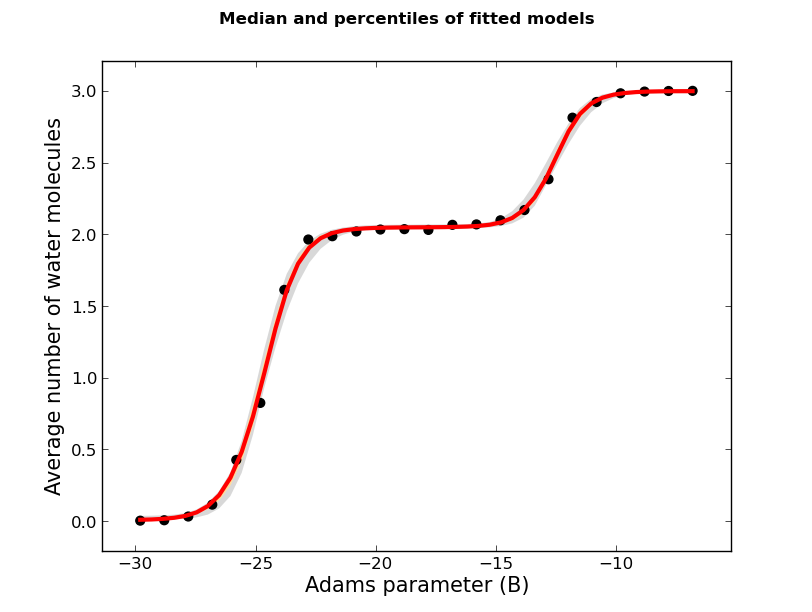
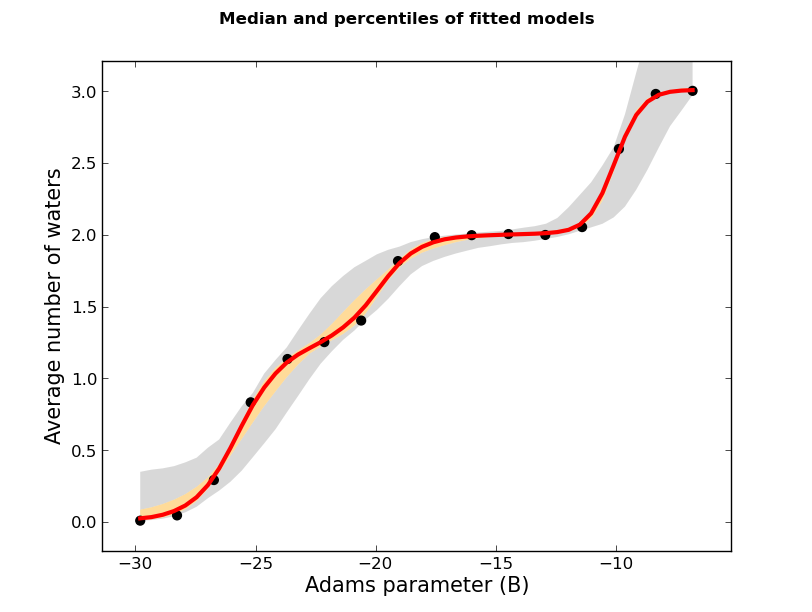
updated tutorial - smaller gcmc box

Changed region(s): [[0.1539, 0.0931, 0.8621, 0.8693], [0.0308, 0.1863, 0.1232, 0.8072], [0.0924, 0.1242, 0.1232, 0.1552]]

diff --git a/tutorial/gcmc_binding_network/gcmc_titration.html b/tutorial/gcmc_binding_network/gcmc_titration.html
@@ -19,56 +19,64 @@ The protein has already been protonated and the atoms names have translated to t
 <h5>Setup</h5>
 Before running GCMC, you must carefully select the region where you'd like to perform GCMC. During the simulations, waters will be inserted and deleted within that region, and the free energy to add or remove waters can be calculated using grand canonical integration. Therefore, you should make sure the GCMC region covers the volume you're interested in. 
 <p>
-In <code>protein_pms.pdb</code>, a box centred at (31.5, 7.0, 2.0) whose sides have lengths (5.0, 4.0, 8.0) encompasses a small cavity. The aim is to use GCMC to calculate the total affinity of water for that site. We can create a box to these specifications by typing
+In <code>protein_pms.pdb</code>, a box centred at (32.0, 7.0, 2.0) whose sides have lengths (3.5, 4.0, 8.0) encompasses a small cavity. The aim is to use GCMC to calculate the total affinity of water for that site. We can create a box to these specifications by typing
 
 <p>
-<pre>python2.7 $PROTOMSHOME/tools/make_gcmcbox.py -b 31.5 7.0 2.0 5.0 4.0 8.0 -o gcmc_box.pdb</pre>
+<pre>python2.7 $PROTOMSHOME/tools/make_gcmcbox.py -b 32.0 7.0 2.0 3.5 4.0 8.0 -o gcmc_box.pdb</pre>
 <p>
 
 This creates a file called <code>gcmc_box.pdb</code> while outputting:
 <p>
 <pre>
-Volume of GCMC box: 160.0
-Bequil: -8.8
+Volume of GCMC box: 112.0
+Bequil: -9.15
 </pre>
 <p>
 We need to know the volume of the GCMC box later for analysis, but will use <em>B<sub>equil</sub></em> to set up the simulation. <em>B<sub>equil</sub></em> is calculated using:
 <p>
      <em>B<sub>equil</sub></em> = <em>&beta;&mu;'</em><sub>hyd</sub> + <em>ln(V/V<sup>o</sup>)</em>,
 <p>
-where <em>B<sub>equil</sub></em> is the Adams value that produces the equilibrium number of waters for the system. <em>&mu;'</em><sub>hyd</sub> is the excess chemical potential of bulk water, which is the hydration free energy of a single water molecule. In ProtoMS, previous analysis has found that <em>&mu;'</em><sub>hyd</sub> equals -6.2 kcal/mol. As the region specified by <code>gcmc_box.pdb</code> has a volume of 160 <span>&#8491;</span><sup>3</sup>, the above equation gives <em>B<sub>equil</sub></em> to be -8.8.
+where <em>B<sub>equil</sub></em> is the Adams value that produces the equilibrium number of waters for the system. <em>&mu;'</em><sub>hyd</sub> is the excess chemical potential of bulk water, which is the hydration free energy of a single water molecule. In ProtoMS, previous analysis has found that <em>&mu;'</em><sub>hyd</sub> equals -6.2 kcal/mol. As the region specified by <code>gcmc_box.pdb</code> has a volume of 112 <span>&#8491;</span><sup>3</sup>, the above equation gives <em>B<sub>equil</sub></em> to be -9.15.
 <p>
-The box we've just created and the small cavity in the protein look like:<br>
+The box we've just created and the small cavity in the protein look like: XXX replace<br>
 <img src="box.png" width="%" height="40%" alt="" /><br>
 <p>
 The figure shows a slice through the surface of the protein, and <code>gcmc_box.pdb</code> encompassing the small, sock-like cavity we're interested in.
 <p>
-As we wish to completely bind water to the volume specified by <code>gcmc_box.pdb</code>, we must run a series of GCMC simulations at different chemical potentials (Adams value in ProtoMS), within which the average number of inserted waters ranges from 0 to the equilibrium number of waters for the system. As we know <em>B<sub>equil</sub></em> is -8.8, we want to chose a range of waters which encompasses this value towards its higher end. We will chose a range of -6.8 to -29.8, which will generate 24 B values. 
+As we wish to completely bind water to the volume specified by <code>gcmc_box.pdb</code>, we must run a series of GCMC simulations at different chemical potentials (Adams value in ProtoMS), within which the average number of inserted waters ranges from 0 to the equilibrium number of waters for the system. As we know <em>B<sub>equil</sub></em> is -9.15, we want to chose a range of waters which encompasses this value towards its higher end. We will chose a range of -6.8 to -29.8. As we would like this to run on a single, 16 processor node, we will run 16 B values between these two points. If you would like to set this simulation up for a different machine, change the value to 12 or 24, or any appropriate value.
 <p>
 
-<pre>python2.7 $PROTOMSHOME/protoms.py -s gcmc -sc protein_pms.pdb --gcmcbox gcmc_box.pdb --adamsrange -29.8 -6.8</pre>
+<pre>python2.7 $PROTOMSHOME/protoms.py -s gcmc -sc protein_pms.pdb --gcmcbox gcmc_box.pdb --adamsrange -29.8 -6.8 16</pre>
 
 This has automatically solvated our protein in a droplet of water (<code>water.pdb</code>) by randomly placing waters up to bulk density. Any solvent water that was placed inside <code>gcmc_box.pdb</code> has been removed to create <code>water_clr.pdb</code>.
+<p>
+
+For this system, convergence can sometimes be difficult. For this reason, open the run_gcmc.
+cmd file in a text editor. The last line should start with "chunk simulate 40000000". Change
+ this to say "chunk simulate 80000000", which will double the number of production steps. Sa
+ve the changes before starting the simulation.
 
 <h5>Execution</h5>
-To run the simulation, you need 24 cores and MPI. Execute by typing
+To run the simulation, you need 16 cores (or whatever number of B values you have chosen) and MPI. Execute by typing
 
-<pre>mpirun -np 24 $PROTOMSHOME/protoms3 run_gcmc.cmd</pre>
+<pre>mpirun -np 16 $PROTOMSHOME/protoms3 run_gcmc.cmd</pre>
 
 <p>
 <h5>Analysis</h5>
 It is vital that you check the simulations by eye. If you have Pymol, you can check the output structures from one of the GCMC simulations by typing
 
-<pre> pymol out_gcmc/b_-8.800/all.pdb </pre>
+<pre> pymol out_gcmc/b_-8.333/all.pdb </pre>
 
 Check your <code>warning</code> files as well to make sure nothing untoward has happened.
 <p>
 
 Before calculating occupancies and free energies with grand canonical integration, we should check to see if the simulations are approximately equilibrated. For one simulation, we can see the average number of inserted GCMC waters for each snapshot by typing
 
-<pre>python2.7 $PROTOMSHOME/tools/calc_series.py -f out_gcmc/b_-8.800/results -s solventson </pre> 
+<pre>python2.7 $PROTOMSHOME/tools/calc_series.py -f out_gcmc/b_-8.333/results -s solventson </pre> 
 
-This would have produced an estimate for the start of the equilibrated period. Check to see if that value matches what you see in the graph that gets automatically plotted.
+<img src="solventson.png" width="%" height="50%" alt="" /><br>
+
+This shows the average number of waters in the simulation at B = -8.333. The system is well equilibrated at 3 waters in this simulation. This would have produced an estimate for the start of the equilibrated period. Check to see if that value matches what you see in the graph that gets automatically plotted. This plot looks well equilibrated from the beginning, but this may vary between repeats and different B values. Look at a few other B values and check if they are equilibrated around a similar point. 
 <p>
 For the rest of this analysis, we'll focus on the script <code>calc_gci.py</code> which contains a lot of functionality. To see how the average number of waters varies with the applied chemical potential - in other words, a titration - type
 
@@ -81,9 +89,9 @@ Depending on what you found with <code>calc_series.py</code>, you can discard th
 <p>
 The plot shows that the average number of waters at each Adams value occurs in 'steps', which is characteristic of all GCMC titration plots. Unlike the case when GCMC is performed on a cavity that can only bind a single water molecule (like <a href="../gcmc_single/gcmc_binding_calc.html">here</a>), the points of inflection of these steps do no necessarily correspond to free energies. As demonstrated in  <em>G. A. Ross et. al, Journal of the American Chemical Society, 2015</em>, it's actually the area under the titration curve that is related to the free energy to transfer water from ideal gas to the simulated system. 
 <p>
-To calculate the area under the titration curve, it is prudent to smooth over the data. The script <code>calc_gci.py</code> can fit a curve by modelling the titration data as a sum of logistic functions, which is equivalent to a very simple type of artificial neural network (ANN). As the titration data shows what looks like 2 steps, we can input that into the model. To calculate the fit with 2 steps and plot it, type
+To calculate the area under the titration curve, it is prudent to smooth over the data. The script <code>calc_gci.py</code> can fit a curve by modelling the titration data as a sum of logistic functions, which is equivalent to a very simple type of artificial neural network (ANN). As the titration data shows what looks like 2 steps, we can input that into the model. To calculate the fit with 3 steps and plot it, type
 
-<pre>python2.7 $PROTOMSHOME/tools/calc_gci.py -d out_gcmc/b_-* -p fit -c fit --steps 2 -v 160</pre>
+<pre>python2.7 $PROTOMSHOME/tools/calc_gci.py -d out_gcmc/b_-* -p fit -c fit --steps 3 -v 112</pre>
 
 Where <code>-v</code> is the volume of the GCMC region given by the <code>make_gcmcbox.py</code> script. This can also be calculated by looking at the <code>gcmc_box.pdb</code> file and determining the volume from the length of the x, y and z dimension. 
 <p>
@@ -95,7 +103,7 @@ The line of best fit is shown in red. The fit correctly captures the shape of th
 
 To calculate the binding free energies of adding water to the cavity, type
 
-<pre>python2.7 $PROTOMSHOME/tools/calc_gci.py -d out_gcmc/b_-* -c pmf --steps 2 -v 160</pre> 
+<pre>python2.7 $PROTOMSHOME/tools/calc_gci.py -d out_gcmc/b_-* -c pmf --steps 3 -v 112</pre> 
 
 where <code>-c pmf</code> indicates that the 'potential of mean force', i.e. the free energy, will be calculated. This will bring up a table like this one:
 
@@ -105,24 +113,24 @@ FREE ENERGIES:
           |----------------------IDEAL GAS TRANSFER FREE ENERGIES--------------------|   |-BINDING FREE ENERGIES-|
 '# Waters' 'Mean'  'Std. dev.'  '25th Percentile'       'Median'      '75th Percentile'    'Mean'        'Median'
   0.00      0.00      0.00            0.00                0.00               0.00            0.00           0.00
-  1.00    -16.24      0.01          -16.24              -16.24             -16.23          -10.04         -10.04
-  2.00    -31.33      0.01          -31.33              -31.33             -31.32          -18.93         -18.93
-  3.00    -40.01      0.01          -40.01              -40.01             -40.00          -21.41         -21.41
+  1.00    -16.54      0.00          -16.54              -16.54             -16.54          -10.34         -10.34
+  2.00    -29.63      0.01          -29.63              -29.63             -29.62          -17.23         -17.23
+  3.00    -36.39      0.00          -36.39              -36.39             -36.39          -17.79         -17.79
 </pre>
 <p>
-The table shows the free energy (in kcal/mol) to transfer water from ideal gas (<code>IDEAL GAS TRANSFER FREE ENERGIES</code>) and from bulk water (<code>BINDING FREE ENERGIES</code>) to the GCMC box. The script <code>calc_gci.py</code> actually fits the ANN several times from different initial parameter values. The free energies are calculated for each fit, and from the ensemble of the calculated free energies the mean, standard deviation (<code>Std. dev</code>), and the 25th, 50th (<code>Median</code>), and 75th percentiles are calculated. When the titration data is particularly noisy, the median free energy is a more robust measure of the average free energy than the mean. The table indicates that the free energy to bind three waters from bulk water is -21.4 +/- 0.01 kcal/mol. 
+The table shows the free energy (in kcal/mol) to transfer water from ideal gas (<code>IDEAL GAS TRANSFER FREE ENERGIES</code>) and from bulk water (<code>BINDING FREE ENERGIES</code>) to the GCMC box. The script <code>calc_gci.py</code> actually fits the ANN several times from different initial parameter values. The free energies are calculated for each fit, and from the ensemble of the calculated free energies the mean, standard deviation (<code>Std. dev</code>), and the 25th, 50th (<code>Median</code>), and 75th percentiles are calculated. When the titration data is particularly noisy, the median free energy is a more robust measure of the average free energy than the mean. The table indicates that the free energy to bind three waters from bulk water is -17.79 +/- 0.01 kcal/mol. 
 <p>
 A way to estimate the sensitivity of the free energy on the titration is to use bootstrap sampling. In each bootstrap sample, the titration data is randomly sampled with replacement, the ANN re-fit, and the free energy calculated. 
 <p>
 You should do as many bootstrap samples as possible, but this can take some time using the default fitting parameters. To speed up the bootstrapping, you can run just 1 random seed for each fit by typing <code>fit_options 'repeats 1'</code>. Also, you can save the ensemble of fitted ANNs using the <code>-o</code> flag. To do 1000 bootstrap samples, plot the fits with error bars, and save the ANNs, type
 
-<pre>python2.7 $PROTOMSHOME/tools/calc_gci.py -d out_gcmc/b_-* -p percentiles pmf -c pmf --steps 2 -v 160 -b 1000 -o ANNs.pickle </pre> 
+<pre>python2.7 $PROTOMSHOME/tools/calc_gci.py -d out_gcmc/b_-* -p percentiles pmf -c pmf --steps 3 -v 112 -b 1000 -o ANNs.pickle </pre> 
 
 The output, <code>ANNs.pickle</code>, can be read in by <code>calc_gci.py</code> when you want to use the same fitted models again. The ensemble of titration fits looks like<br>
 
 <img src="fitted_ann_percentiles_1000boots.png" width="%" height="50%" alt="" /><br>
 
-The orange and grey areas indicate where 50% and 90%, respectively, of the bootstrapped fits lay. Here however, the titration data sits close to the fit, so only a small region of grey is visible around the red line. This analysis is helpful for systems that are less converged. The error can be reduced by running more GCMC simulations, particularly with Adams values around the points of inflections. The table of free energies that corresponds to the boostrap sampling looks like
+The orange and grey areas indicate where 50% and 90%, respectively, of the bootstrapped fits lay. It can be seen that the incorrect fits are where the grey region is widest, which is for the titration of the third water molecule. The error can be reduced by running more GCMC simulations, particularly with Adams values around the points of inflections. The table of free energies that corresponds to the boostrap sampling looks like
 
 <pre>
 FREE ENERGIES:
@@ -130,45 +138,47 @@ FREE ENERGIES:
           |----------------------IDEAL GAS TRANSFER FREE ENERGIES--------------------|   |-BINDING FREE ENERGIES-|
 '# Waters' 'Mean'  'Std. dev.'  '25th Percentile'       'Median'      '75th Percentile'    'Mean'        'Median'
   0.00      0.00      0.00            0.00                0.00               0.00            0.00           0.00
-  1.00    -16.26      0.45          -16.31              -16.26             -16.20          -10.06         -10.06
-  2.00    -31.37      0.76          -31.45              -31.34             -31.25          -18.97         -18.94
-  3.00    -40.04      0.76          -40.12              -40.03             -39.91          -21.44         -21.43
+  1.00    -16.63      1.28          -16.48              -16.36             -16.32          -10.43         -10.16
+  2.00    -29.69      1.34          -29.68              -29.43             -29.30          -17.29         -17.03
+  3.00    -36.41      1.42          -36.52              -36.20             -35.96          -17.81         -17.60
 </pre>
-The error to transfer/bind 3 waters has now increased to about 0.8 kcal/mol. The binding free energy has been automatically plotted and looks like<br>
+The error to transfer/bind 3 waters has now increased to about 1.5 kcal/mol. The binding free energy has been automatically plotted and looks like<br>
 
 <img src="binding_free_energy_1000boots.png" width="%" height="50%" alt="" /><br>
 
-If there is larger variance in the boostrapping samples, blue and grey areas will be visible, showing the 50% and 90% confidence intervals, respectively, of the calculated free energies. From this graph, it's clear that the minimum free energy state of the system is with three waters bound. Thus, three is the optimal number of waters for the region encompassed by <code>gcmc_box.pdb</code>.
+The blue and grey areas of the curve show the 50% and 90% confidence intervals, respectively, of the calculated free energies. From this graph, the minimum free energy state of the system is between two and three waters bound. Thus, three is the optimal number of waters for the region encompassed by <code>gcmc_box.pdb</code>.
 
-The optimal water occupancy can also be calculated by looking at <em>B<sub>equil</sub></em>. The <em>B<sub>equil</sub></em> value should correspond to the optimal occupancy, shown in the setup section. As calculated previously, the volume of 160 <span>&#8491;</span><sup>3</sup> relates to a <em>B<sub>equil</sub></em> of -8.4. The water occupancy is calculated by determining the N value at the point where the fitted curve passes through <em>B<sub>equil</sub></em>. As this is dependent on the quality of the fit to the data, the average Nequil is also calculated as the average of simulated B values near to the <em>B<sub>equil</sub></em> value. 
+The optimal water occupancy can also be calculated by looking at <em>B<sub>equil</sub></em>. The <em>B<sub>equil</sub></em> value should correspond to the optimal occupancy, shown in the setup section. As calculated previously, the volume of 112 <span>&#8491;</span><sup>3</sup> relates to a <em>B<sub>equil</sub></em> of -9.15. The water occupancy is calculated by determining the N value at the point where the fitted curve passes through <em>B<sub>equil</sub></em>. As this is dependent on the quality of the fit to the data, the average Nequil is also calculated as the average of simulated B values near to the <em>B<sub>equil</sub></em> value. 
 <p>
 <pre>
 B EQUILIBRIUM CONDITION FROM FITTED MODELS:
-Bequil: -8.8
+Bequil: -9.2
 Number of molecules:  Mean   Std. dev   25th Percentile    50th Percentile   75th Percentile
-                      3.0      0.0            3.0              3.0                3.0
+                      2.9      0.9            2.8              2.9                2.9
 B EQUILIBRIUM CONDITION FROM SIMULATED B VALUE:
-Bequil: -8.8
-Similar simulated B values: [-8.8]
-Average N* at simululated at B values: [-8.8] is 3.0
+Bequil: -9.2
+Similar simulated B values: [-9.867]
+Average N* at simululated at B values: [-9.867] is 2.6
 </pre>
 <p>
-Both methods have calculated <em>N<sub>equil</sub></em> to be 3.0, which is consistent with the occupancy that minimises the binding free energy above. 
+The fitted model estimation of the water occupancy is 2.9 waters, which is consistent with the minimum binding free energy network also being 3 waters. The estimation based on the nearest B value underestimates the number of waters at 2.6, but this difference is probably due to the B value simulated (-9.8) being sufficiently different to the equilibrium value (-9.2).
 <p>
 To calculate the free energy to add a specific number of waters, say the free energy to bind 1 water when 2 are already bound, use the <code>--range</code> flag. We'll input the 1000 boostrap fits with the <code>-i</code> flag. The binding free energy of the 3rd water can be calculated with
 
-<pre>python2.7 $PROTOMSHOME/tools/calc_gci.py -d out_gcmc/b_-* -c pmf -v 160 -i ANNs.pickle --range 2 3 </pre> 
+<pre>python2.7 $PROTOMSHOME/tools/calc_gci.py -d out_gcmc/b_-* -c pmf -v 112 -i ANNs.pickle --range 2 3 </pre> 
 
 with the result
 
 <pre>
+FREE ENERGIES:
+  Quoted errors are from the input model(s).
           |----------------------IDEAL GAS TRANSFER FREE ENERGIES--------------------|   |-BINDING FREE ENERGIES-|
 '# Waters' 'Mean'  'Std. dev.'  '25th Percentile'       'Median'      '75th Percentile'    'Mean'        'Median'
   2.00      0.00      0.00            0.00                0.00               0.00            0.00           0.00
-  3.00     -8.67      0.11           -8.72               -8.67              -8.61           -2.47          -2.47
+  3.00     -6.71      0.48           -6.81               -6.76              -6.72           -0.51          -0.56
 </pre>
-Note how the uncertainty has signicantly decreased. This is because we need only evaluate a smaller area for the relative calculation. The above tables shows that the free energy to bind the third and last water is -4.45 +/- 0.11 kcal/mol. 
+Note how the uncertainty has signicantly decreased. This is because we need only evaluate a smaller area for the relative calculation. The above tables shows that the free energy to bind the third and last water is -0.51 +/- 0.48 kcal/mol. 
 
-<h4>Written by Gregory A. Ross, 2015. Revised by Hannah Bruce-Macdonald, Jan 2017</h4>
+<h4>Written by Gregory A. Ross, 2015. Revised by Hannah Bruce Macdonald, Jan 2017</h4>
 </BODY>
 </HTML>
